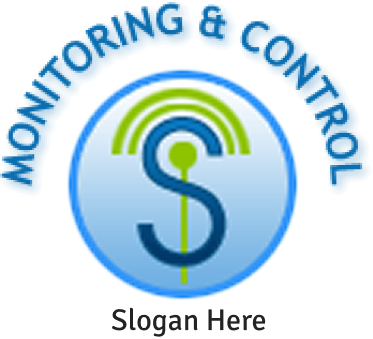
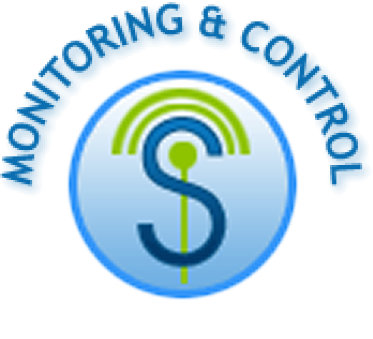
slogan with slider

Changed region(s): [[0.2949, 0.9145, 0.5308, 1.0], [0.5603, 0.9145, 0.7078, 0.9735]]

diff --git a/lib/Classes/Screens/auth/login.dart b/lib/Classes/Screens/auth/login.dart
@@ -1,9 +1,14 @@
 import 'package:sensor_tree/Classes/Utils/imports/barrel_imports.dart';
 
 class LoginScreen extends StatefulWidget {
-  const LoginScreen({super.key, required this.images});
+  const LoginScreen({
+    super.key,
+    required this.images,
+    required this.sloganText,
+  });
 
   final List<String> images;
+  final String sloganText;
 
   @override
   State<LoginScreen> createState() => _LoginScreenState();
@@ -56,10 +61,17 @@ class _LoginScreenState extends State<LoginScreen> {
                   color: Colors.transparent,
                   child: Center(
                     child: Image.asset(
-                      'assets/images/Group 327.png',
+                      AppImages().kImageGroup327,
                       fit: BoxFit.cover,
                     ),
                   ),
+                ),
+                customText(
+                  widget.sloganText,
+                  14.0,
+                  context,
+                  fontWeight: FontWeight.w700,
+                  lightModeColor: AppColor().kAppBlackColor,
                 ),
                 SizedBox(height: 10),
                 customText(
@@ -132,8 +144,10 @@ class _LoginScreenState extends State<LoginScreen> {
                           context,
                           MaterialPageRoute(
                             builder:
-                                (context) =>
-                                    ForgotPasswordScreen(images: images),
+                                (context) => ForgotPasswordScreen(
+                                  images: images,
+                                  sloganText: widget.sloganText,
+                                ),
                           ),
                         );
                       },
@@ -159,8 +173,10 @@ class _LoginScreenState extends State<LoginScreen> {
                                 context,
                                 MaterialPageRoute(
                                   builder:
-                                      (context) =>
-                                          RegistrationScreen(images: images),
+                                      (context) => RegistrationScreen(
+                                        images: images,
+                                        sloganText: widget.sloganText,
+                                      ),
                                 ),
                               );
                             },

diff --git a/lib/Classes/Screens/welcome/welcome.dart b/lib/Classes/Screens/welcome/welcome.dart
@@ -11,6 +11,8 @@ class WelcomeScreen extends StatefulWidget {
 class _WelcomeScreenState extends State<WelcomeScreen> {
   List<String> storeImages = [];
   bool screenLoader = true;
+  // slogan text
+  String sloganText = '';
   @override
   void initState() {
     super.initState();
@@ -91,7 +93,10 @@ class _WelcomeScreenState extends State<WelcomeScreen> {
                           context,
                           MaterialPageRoute(
                             builder:
-                                (context) => LoginScreen(images: storeImages),
+                                (context) => LoginScreen(
+                                  images: storeImages,
+                                  sloganText: sloganText,
+                                ),
                           ),
                         );
                       },
@@ -123,6 +128,7 @@ class _WelcomeScreenState extends State<WelcomeScreen> {
                                     builder:
                                         (context) => RegistrationScreen(
                                           images: storeImages,
+                                          sloganText: sloganText,
                                         ),
                                   ),
                                 );
@@ -167,7 +173,7 @@ class _WelcomeScreenState extends State<WelcomeScreen> {
   }
 
   // ====================== API ================================================
-  // ====================== SLIDER
+  // ==================== SLIDER
   Future<void> callSliderWB(context) async {
     Map<String, dynamic> response = await ApiService().getRequestWithoutParams(
       ApiEndPoint().kEndPointSlider,
@@ -175,6 +181,8 @@ class _WelcomeScreenState extends State<WelcomeScreen> {
     if (response['status'] == true) {
       customLog("Slider successfull");
       storeImages = List<String>.from(response['images']);
+      sloganText = response['slogan']['value'].toString();
+
       setState(() {
         screenLoader = false;
       });

diff --git a/lib/Classes/Screens/auth/forgot_password.dart b/lib/Classes/Screens/auth/forgot_password.dart
@@ -2,9 +2,14 @@ import 'package:sensor_tree/Classes/Screens/auth/otp.dart';
 import 'package:sensor_tree/Classes/Utils/imports/barrel_imports.dart';
 
 class ForgotPasswordScreen extends StatefulWidget {
-  const ForgotPasswordScreen({super.key, required this.images});
+  const ForgotPasswordScreen({
+    super.key,
+    required this.images,
+    required this.sloganText,
+  });
 
   final List<String> images;
+  final String sloganText;
 
   @override
   State<ForgotPasswordScreen> createState() => _ForgotPasswordScreenState();
@@ -61,6 +66,13 @@ class _ForgotPasswordScreenState extends State<ForgotPasswordScreen> {
                       fit: BoxFit.cover,
                     ),
                   ),
+                ),
+                customText(
+                  widget.sloganText,
+                  14.0,
+                  context,
+                  fontWeight: FontWeight.w700,
+                  lightModeColor: AppColor().kAppBlackColor,
                 ),
                 SizedBox(height: 10),
                 customText(
@@ -153,6 +165,7 @@ class _ForgotPasswordScreenState extends State<ForgotPasswordScreen> {
           builder:
               (context) => OTPScreen(
                 getEmail: _controller.contEmail.text.toString(),
+                sloganText: widget.sloganText,
                 images: images,
               ),
         ),

diff --git a/lib/Classes/Screens/auth/registration.dart b/lib/Classes/Screens/auth/registration.dart
@@ -2,9 +2,14 @@ import 'package:sensor_tree/Classes/Screens/auth/registration_otp.dart/registrat
 import 'package:sensor_tree/Classes/Utils/imports/barrel_imports.dart';
 
 class RegistrationScreen extends StatefulWidget {
-  const RegistrationScreen({super.key, required this.images});
+  const RegistrationScreen({
+    super.key,
+    required this.images,
+    required this.sloganText,
+  });
 
   final List<String> images;
+  final String sloganText;
 
   @override
   State<RegistrationScreen> createState() => _RegistrationScreenState();
@@ -61,6 +66,13 @@ class _RegistrationScreenState extends State<RegistrationScreen> {
                       fit: BoxFit.cover,
                     ),
                   ),
+                ),
+                customText(
+                  widget.sloganText,
+                  14.0,
+                  context,
+                  fontWeight: FontWeight.w700,
+                  lightModeColor: AppColor().kAppBlackColor,
                 ),
                 SizedBox(height: 10),
                 customText(

diff --git a/lib/Classes/Screens/auth/otp.dart b/lib/Classes/Screens/auth/otp.dart
@@ -1,10 +1,16 @@
 import 'package:sensor_tree/Classes/Utils/imports/barrel_imports.dart';
 
 class OTPScreen extends StatefulWidget {
-  const OTPScreen({super.key, required this.getEmail, required this.images});
+  const OTPScreen({
+    super.key,
+    required this.getEmail,
+    required this.images,
+    required this.sloganText,
+  });
 
   final String getEmail;
   final List<String> images;
+  final String sloganText;
 
   @override
   State<OTPScreen> createState() => _OTPScreenState();

diff --git a/lib/Classes/Utils/resources/resources.dart b/lib/Classes/Utils/resources/resources.dart
@@ -28,6 +28,11 @@ class AppColor {
   Color kAppRedAColor = Colors.redAccent;
 }
 
+class AppImages {
+  String kImageGroup327 = "assets/images/Group 327.png";
+  String kImageGroup451 = "assets/images/Group 451.png";
+}
+
 // FONTS
 class FontFamiltyNameUtils {
   var fontOrbitron = 'o';
